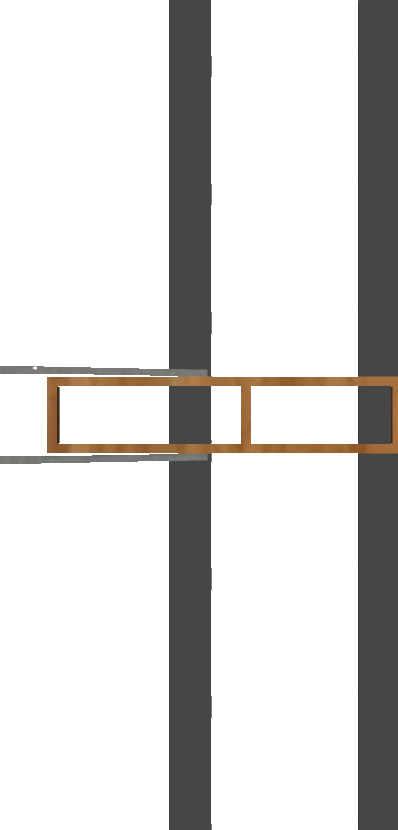
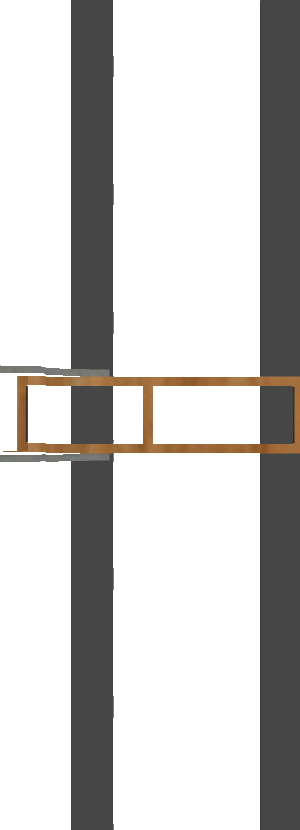
iamge

diff --git a/fyp2016/VirtualPlatform.cpp b/fyp2016/VirtualPlatform.cpp
@@ -222,7 +222,8 @@ void VirtualPlatform::drawTexture() {
 	SDL_RenderCopyEx(mainCanvas->getRenderer(), wheelTexture->getTexture(), NULL, &rightWheelRect, (quad.getHeading() + quad.getSteerAng() - quad.getSteerAng()/5) * 180 / 3.1416, NULL, SDL_FLIP_NONE);
 
 	// drawing the sensor mount
-	SDL_Rect sensorRect = { transform(quadLoc + quad.getSensorTopLeft()).x, transform(quadLoc + quad.getSensorTopLeft()).y, 1.5 * drawScale, 3 * drawScale };
+	double sensorFactor = sensorTexture->getHeight() / 3; // divide by 3 because 3m wide
+	SDL_Rect sensorRect = { transform(quadLoc + quad.getSensorTopLeft()).x, transform(quadLoc + quad.getSensorTopLeft()).y, sensorTexture->getWidth() * drawScale / sensorFactor, sensorTexture->getHeight() * drawScale /sensorFactor};
 	SDL_Point sensorCenter = { 0,0 };
 	SDL_RenderCopyEx(mainCanvas->getRenderer(), sensorTexture->getTexture(), NULL, &sensorRect, quad.getHeading() * 180 / 3.1416 - 90, &sensorCenter, SDL_FLIP_NONE);
 
